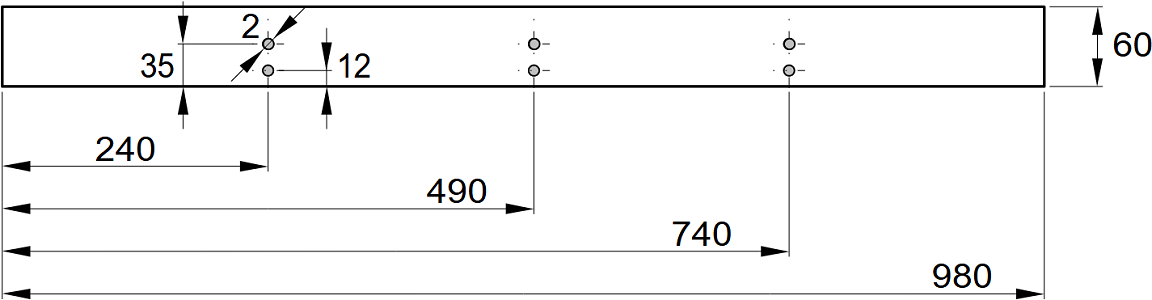
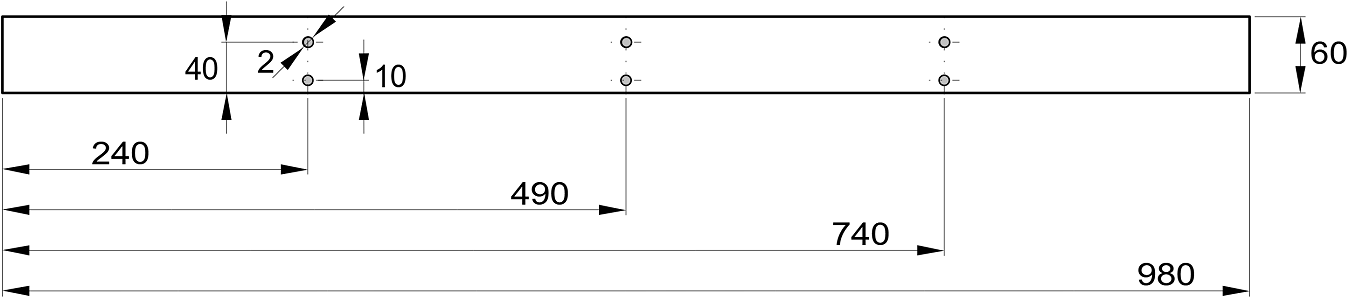
Update Modul 12

diff --git a/use/module12/LIESMICH.md b/use/module12/LIESMICH.md
@@ -16,10 +16,9 @@ Diese Anleitung beschreibt den Bau eines 100 x 25 cm² großen Gleis-Moduls M12 
 | Elektrischer Anschluss | 2x 25-poliger SUB-D-Stecker (entsprechend NEM 908D, je 1x WEST und OST) |   
 | Fahrstrom     | Analog oder DCC-Betrieb |   
 | Steuerung der Schaltkomponenten | * Händisch direkt an der Modulvorderseite <br> * über DCC <br> * durch MQTT-Nachrichten (über WLAN) |   
-| Bedienelemente | 1x Dreiwegweiche (Block W3, DCC 121 und 122) <br> 2x Zweiwegweiche (Block W2, DCC 123 und 128) <br> 1x Entkuppler (Block 1OUT, DCC 124) <br> 3x Fahrstrom (Block 2IO, DCC 125, 126 und 127) |   
-| IP-Adresse Broker (Host) | 10.1.1.1 |   
+| Bedienelemente | 1x OLED-Display und Taster <br> 1x Dreiwegweiche (Block W3, DCC 121 und 122) <br> 2x Zweiwegweiche (Block W2, DCC 123 und 128) <br> 1x Entkuppler (Block 1OUT, DCC 124) <br> 3x Fahrstrom (Block 2IO, DCC 125, 126 und 127) |   
 | WLAN           | SSID: &nbsp; &nbsp; &nbsp; `Raspi11` <br> Passwort: `12345678` |   
-
+| MQTT: IP-Adresse des Brokers (Host) | `10.1.1.1` |   
 <a name="x05"></a>   
 
 # Inhaltsverzeichnis   
@@ -31,7 +30,7 @@ Diese Anleitung beschreibt den Bau eines 100 x 25 cm² großen Gleis-Moduls M12 
 [Zum Seitenanfang](#up)   
 <a name="x10"></a>   
 
-# 1. Vorbereitung - Einkauf
+# 1. Vorbereitung und Einkauf
 ## 1.1 Entwurf des Gleisplans
 ### 1.1.1 Allgemeines zu Gleisplänen
 Beim Erstellen eines Gleisplans sind zwei Dinge zu beachten: das Lichtraumprofil und die Höhe des Gleisaufbaus. Das Lichtraumprofil gibt an, wieviel Platz (vor allem von langen Waggons) neben dem Gleis benötigt wird und ist bei engen Radien wichtig. Die Höhe des Gleisaufbaus (Bahnkörper) ist bei mehrstöckigen Anlagen oder Tunnels wichtig.   
@@ -56,7 +55,8 @@ Der folgende Gleisplan wurde mit dem Programm [AnyRail](https://www.anyrail.com/
 ![M12 Gleisplan](./images/300_m12_gleisplan.png "M12 Gleisplan")   
 _Bild 3: Gleisplan_   
 
-Das 2. Gleis von links ist ein Gleis ohne Schotterbett mit der Länge 17,2 mm (22207). Die übrigen kurzen Gleise sind Gerade (9104) mit der Länge 27,75 mm. (Im Plan nicht gut lesbar.)   
+Dunkelgraue Dreiecke stellen Gleisisolierungen dar (Isolierschuhe), braune und rote Kreise sind Fahrstromeinspeisungen.   
+Das 2. Gleis von links ist ein Gleis ohne Schotterbett mit der Länge 17,2 mm (22207). Die übrigen kurzen Gleise sind Gerade (9104) mit der Länge 27,75 mm. (Im Plan schlecht lesbar.)   
 Eine Besonderheit stellt das Gleis 9136 mit dem Kommentar "R4 9 Schwellen" dar: Hier wird ein Gleis 9136 zuerst links mit der Weiche verbunden und danach bei einem Winkel von 6,14° (= 9 Schwellen) "abgeschnitten".   
 
 ## 1.2 Schienenkauf - Stückliste
@@ -83,7 +83,13 @@ Zum Bau des Moduls werden folgende Gleise und Zubehör benötigt:
    
 Gesamtkosten 2025: ca. 435 Euro   
 
-## 1.3 Holzkauf für Modul 100 x 25 cm²
+## 1.3 Rahmen
+### 1.3.1 Modulrahmen
+Der 100 x 25 cm² große Modulrahmen ist 6 cm hoch und besteht aus zwei Seitenteilen ("Ost" und "West"), zwei Längsteilen ("Nord" und "Süd") sowie drei Querstreben. Die Geländeplatte wird in den Rahmen eingelegt.   
+Die Teile des Rahmens können entweder aus Holz hergestellt oder mit dem 3D-Drucker gedruckt werden. Auch eine gemischte Bauweise ist möglich, zB Seitenteile und Querstreben 3D-Drucken, Längsteile aus Holz.   
+
+
+### 1.3.2 Holzkauf für Modul 100 x 25 cm²
 Das Holz besorgt man sich am besten bei einem Baumarkt und lässt es gleich auf die folgenden Größen zuschneiden:   
 
 __Pappelsperrholz 10 mm__   
@@ -99,9 +105,12 @@ __Pappelsperrholz 5 mm (oder 4 mm)__
 |:-----:|:-------------:|:----------|   
 |   1   | 980 x 250 mm² | Bahndamm  |   
 
-Eventuell als zusätzliche Auflager für die Grundplatte: 4 kleine Holzstücken 10 x 10 x 50 mm³.   
+__Kleinteile__   
+20x Schraube M3 x 30 mm Senkkopf, Kreuzschlitz, selbstschneidend (Fa. Spax 4 003530 021251)   
+4x Pappelsperrholz 10 mm stark, 70 x 35 mm² für die Halterungen der Sub-D-Stecker.   
+4x kleine Holzstücken 10 x 10 x 50 mm³ als zusätzliche Auflager für die Grundplatte.   
 
-## 1.4 Verbrauchsmaterial
+## 1.3.3 Verbrauchsmaterial
 Zum Bau des Moduls wird noch folgendes benötigt:   
 | St&uuml;ck | Nummer | Lieferant  | Bezeichnung      |   
 |:----------:|:------:|:-----------|:-----------------|   
@@ -118,13 +127,13 @@ Damit der Holzrahmen nicht so leicht verstaubt, sollte er lackiert werden. Dazu 
 |      2     |   |   | Paar Einmal-Handschuhe         |   
 |      1     |   |   | Schleifpapier Körnung 240      |   
 
-## 1.5 Elektronische RCC-Komponenten
-### 1.5.1 Steuerung
+## 1.4 Elektronische RCC-Komponenten
+### 1.4.1 Steuerung
 Für die Steuerung wird der ESP32 mit den beiden Zusatzplatinen (I²C, DCC) und dem 1,54"-OLED-Display verwendet. Der Zusammenbau ist auf   
 [`https://github.com/khartinger/RCC5V/blob/main/fab/rcc2_esp32/LIESMICH.md`](/fab/rcc2_esp32/LIESMICH.md)   
 beschrieben.   
 
-### 1.5.2 Anschluss der 25-poligen Stecker
+### 1.4.2 Anschluss der 25-poligen Stecker
 Für den Anschluss der 25-poligen Stecker und für die Stromversorgung werden folgende bestückte Leiterplatten benötigt:   
 * 1x [Netzteil-Platine AC_5V_supply_6pol_DCC](/fab/rcc1_supply/LIESMICH.md#x20)   
 * 1x [Platine mit 25-poligem Sub-D-Stecker, Schraubklemmen und Netzteil (RW_5V_SUB25_10)](/fab/rcc1_supply/LIESMICH.md#x33)   
@@ -132,14 +141,17 @@ Für den Anschluss der 25-poligen Stecker und für die Stromversorgung werden fo
 
 Die bestückte Netzteil-Platine muss auf die Trägerplatine `RW_5V_SUB25_10` montiert werden.   
 
-### 1.5.3 Ansteuerung der Schaltkomponenten
+### 1.4.3 Ansteuerung der Schaltkomponenten
 Für die Ansteuerung der Schaltkomponenten werden folgende Schaltblöcke benötigt:   
 * 1x [Block Dreiwegweiche (W3)](/fab/rcc4_block/LIESMICH.md#x30)   
 * 2x [Block Zweiwegweiche (W2)](/fab/rcc4_block/LIESMICH.md#x20)   
 * 1x [Block Entkuppler (1OUT)](/fab/rcc4_block/LIESMICH.md#x40)   
 * 3x [Block Abschaltbares Gleis (2IO)](/fab/rcc4_block/LIESMICH.md#x50)   
 
-### 1.5.4 Verdrahtung
+### 1.4.4 I²C-Expander
+* 4x [PCF8574 I/O-Expander](/fab/rcc0_start/LIESMICH.md#34)   
+
+### 1.4.5 Verdrahtung
 Zum Anschluss der Schaltkomponenten sinnvoll sind folgende Zusatzplatinen:   
 ...ToDo...
 
@@ -151,8 +163,8 @@ __Drähte und Leitungen__
 
 # 2. Bau des Modul-Rahmens   
 ## 2.1 Einleitung
-Zuerst den Modul-Rahmen zu erstellen hat zwei Vorteile:   
-1. Der Test, ob die Grundplatte in den Rahmen passt, kann mit der leeren Grundplatte durchgeführt werden. Falls die Grundplatte zu groß ist, kann sie einfach zugeschnitten oder zugeschliffen werden.   
+Jedes Modul besteht aus einem Rahmen und der Grundplatte. Zuerst sollte man den Modul-Rahmen erstellen. Das hat zwei Vorteile:   
+1. Der Test, ob die Grundplatte in den Rahmen passt, kann mit der leeren Grundplatte erfolgen. Falls die Grundplatte zu groß ist, kann sie einfach zugeschnitten oder zugeschliffen werden.   
 2. Beim Aufkleben der Gleise auf die Grundplatte sind an den Modulübergängen (Ost und West) bereits die Seitenteile mit den Gleisausnehmungen vorhanden. So sind die Gleise beim Aufkleben sicher an der richtigen Position.   
 
 ## 2.2 Materialbedarf
@@ -161,30 +173,32 @@ Das 100 x 25 cm² große Modul besteht aus zwei Teilen:
 * Grundplatte   
 
 ![Modul-Rahmen](./images/300_module_frame.png "Modul-Rahmen")   
-_Bild 4: Rahmen außen (Ra1 bis Ra4) mit Querverstrebung innen (Ri1, Ri2, Ri3)_
+_Bild 4: AnyRail-Darstellung des Rahmens außen (Ra1 bis Ra4) mit Querverstrebungen innen (Ri1, Ri2, Ri3)_
 
 ## 2.3 Seitenteile Ra1, Ra3 (West, Ost)
 Die Seitenteile sind an eine (ehemalige?) Norm von n-spur.at angelehnt, wobei das Bahnkörper-Profil jedoch der NEM122 entspricht:   
 
 ![Modul_OstWest_1_Mitte.png](./images/300_OstWest_1_Mitte.png "Modul_OstWest_1_Mitte")   
-_Bild 5: N_Modul_2012: Seitenteil Ost, West (Modulbreite 250mm, ein in der Mitte liegendes Gleis)._   
+_Bild 5: Maße für die Seitenteile Ost und West (Modulbreite 250mm, ein in der Mitte liegendes Gleis)._   
 
-Die vier 8mm-Bohrungen dienen zum Verbinden von Modulen durch 8 mm-Flügelschrauben und Flügelmuttern.   
+Die vier 8mm-Bohrungen dienen zum Verbinden der Module mit 8 mm-Flügelschrauben und Flügelmuttern.   
 Die linken und rechten vier 2 mm-Bohrungen dienen zum Anschrauben der Nord- und Südwand. Sie müssen mit einem Kegelsenker erweitert werden, damit die Senkkopfschrauben nicht vorstehen.   
 Die oberen zwei 2mm-Bohrungen dienen zum Fixieren der Gelände-Grundplatte (falls erforderlich). Auch sie müssen mit einem Kegelsenker erweitert werden, damit die Senkkopfschrauben nicht vorstehen.   
 Die 60x20 mm²-Ausnehmung dient zum Durchführen des 25-poligen Sub-D-Steckers.   
 Mit besonderer Vorsicht ist die Ausnehmung für das Gleis zu fertigen. Mit einer Laubsäge wird die Ausnehmung etwas zu klein ausgeschnitten und mit einer Dreiecksfeile erweitert. Dabei ist immer wieder zu probieren, ob ein Fleischmann-Schotterbett-Gleis schon gerade (klemmend) hineinpasst und auch mittig ist.   
 
 ## 2.4 Rahmenteil Ra2 (Nord)
-Der Rahmenteil „Nord“ enthält dreimal zwei Bohrungen mit 2 mm Durchmesser, die wieder mit einem  Kegelsenker erweitert werden. Hier werden später die Querverstrebungen verschraubt.   
+Der Rahmenteil „Nord“ enthält dreimal zwei Bohrungen mit 2 mm Durchmesser, die wieder mit einem  Kegelsenker erweitert werden. Hier werden die Querverstrebungen verschraubt.   
 
 ![Modul_Nord_980mm](./images/300_Nord_980mm.png "Modul_Nord_980mm")   
 _Bild 6: Seitenteil Nord Ra2_   
 
 ## 2.5 Seitenteil Ra4 (Süd)
 Der Rahmenteil Süd enthält die Bohrungen für alle Steuerblöcke und die Querverstrebungen.   
-![]()   
-_Bild 7: Rahmenteil Süd Ra4_   
+Das Schaltbild der Dreiwegweiche W3 zeigt nach rechts (6 Bohrungen), das der ersten Zweiwegweiche W2 nach links unten (4 Bohrungen) und das des Entkupplers 1OUT nach rechts (4 Bohrungen). Es folgen die drei Schaltbilder für die Fahrstromabschaltung 2IO (7 Bohrungen) und das Schaltbild der zweiten Zweiwegweiche W2 nach rechts oben (4 Bohrungen).   
+
+![Modul_Süd_980mm](./images/300_Sued_980mm.png "Modul_Süd_980mm")   
+_Bild 7: Maße für den Rahmenteil Süd (Ra4)_   
 
 ## 2.6 Querverstrebung Ri1 bis Ri3
 Die Querverstrebungen enthalten Durchbrüche für Kabel.   
@@ -194,6 +208,9 @@ _Bild 8: Querverstrebungen Ri1 bis Ri3_
 
 [Zum Seitenanfang](#up)   
 <a name="x30"></a>   
+
+## 2.7 Zusammenbau des Rahmens
+
 
 # 3. Aufbau des Gleisplans   
 

diff --git a/fab/rcc0_start/LIESMICH.md b/fab/rcc0_start/LIESMICH.md
@@ -93,6 +93,7 @@ Viele der Bauteile, wie zB Schrauben, werden in größeren Gebinden verkauft, hi
 Die unten angegebenen Mengen reichen für den Bau _eines_ Moduls mit mehreren Blöcken.   
 Die angegebenen Preise dienen nur der Information und waren im Dezember 2024 gültig (ohne Black Friday etc.).   
 
+<a name="x31"></a>   
 ## Mechanische Bauteile
 
 | Bild | Anzahl | Stück /Pkg | Bezeichnung | ca. Euro | Quelle |   
@@ -106,6 +107,7 @@ Die angegebenen Preise dienen nur der Information und waren im Dezember 2024 gü
 | ![switch_cap](/images/parts/300_switch_cap.png "switch_cap") | 1 | 7x10 | Knopf für Taster/Schalter 8x8mm, Länge 10mm, 7 verschiedene Farben | 1,92 | [AliExpress Ali_CanHui](https://de.aliexpress.com/item/1005001524633998.html?spm=a2g0o.order_list.order_list_main.193.40f55c5f5h69eX&gatewayAdapt=glo2deu) |   
 |  | 1 | 100 | Knopf für Taster/Schalter 8x8mm, Länge 7mm, verschiedene Farben | 2,17 | [AliExpress TEJIATE_Store](https://de.aliexpress.com/item/4000504035520.html?spm=a2g0o.order_list.order_list_main.322.40f55c5f5h69eX&gatewayAdapt=glo2deu) |   
 
+<a name="x32"></a>   
 ## Elektrische Bauteile
 
 | Bild | Anzahl | Stück /Pkg | Bezeichnung | ca. Euro | Quelle |   
@@ -130,6 +132,7 @@ Die angegebenen Preise dienen nur der Information und waren im Dezember 2024 gü
 | ![IC4](/images/parts/300_IC4.png "IC4") | 1 | 50 | IC socket with turned contacts 4-pin | 4,68 | [AliExpress](https://de.aliexpress.com/item/1005003652148420.html?spm=a2g0o.productlist.main.1.7c52I0v0I0v0cU&algo_pvid=944cbd2e-7acc-4457-9e4f-fbcceda1d0a0&algo_exp_id=944cbd2e-7acc-4457-9e4f-fbcceda1d0a0-0&pdp_npi=4%40dis%21EUR%214.68%214.35%21%21%214.81%214.47%21%40210385a817331341448998686eda30%2112000026657542931%21sea%21AT%21738334575%21X&curPageLogUid=wU9ZgQgX5eGi&utparam-url=scene%3Asearch%7Cquery_from%3A) |   
 | ![IC8](/images/parts/300_IC8.png "IC8") | 1 | 10 | IC socket with turned contacts 8-pin | 1,89 | [AliExpress](https://de.aliexpress.com/item/1005007246586839.html?spm=a2g0o.order_list.order_list_main.195.f9f35c5fKqYn54&gatewayAdapt=glo2deu) |   
 
+<a name="x33"></a>   
 ## Elektronische Bauteile
 
 | Bild | Anzahl | Stück /Pkg | Bezeichnung | ca. Euro | Quelle |   
@@ -162,14 +165,18 @@ Die angegebenen Preise dienen nur der Information und waren im Dezember 2024 gü
 | ![resistor_47k](/images/parts/100_47k.png "resistor_47k") | 1 | 10 | Widerstand 47 k&Omega; | 0,00 | [Reichelt](https://www.reichelt.de/de/de/shop/produkt/widerstand_kohleschicht_47_kohm_0207_250_mw_5_-1434) |   
 | ![resistor_100k](/images/parts/100_100k.png "resistor_100k") | 1 | 10 | Widerstand 100 k&Omega; | 0,00 | [Reichelt](https://www.reichelt.de/de/de/shop/produkt/widerstand_kohleschicht_100_kohm_0207_250_mw_5_-1337) |   
 
+<a name="x34"></a>   
 ## Zukaufteile
+
 | Bild | Anzahl | Stück /Pkg | Bezeichnung | ca. Euro | Quelle |   
 |:---- |:------:|:----------:|:----------- | --------:|:------ |   
 | ![DC-DC-Converter](/images/parts/300_dc_dc_converter1.png "DC-DC-Converter") | 1 | 5 | DC-DC-Wandler-Board StepDown_LM2596 | 9,56 | [Amazon](https://www.amazon.de/dp/B0823P6PW6?ref=ppx_yo2ov_dt_b_fed_asin_title) |    
 | ![I2C-Logic-Level-Converter](/images/parts/96_i2c_logic_level_converter.png "I2C-Logic-Level-Converter") | 1 | 1 <br> 5 | 5V-3V Dual Channel I2C IIC Logic-Level-Converter Modul Bi-Directional | 0,28 <br> 4,91 | [AliExpress diymore Alice1101983](https://de.aliexpress.com/item/32903662283.html?spm=a2g0o.order_list.order_list_main.25.681e5c5fkWDadk&gatewayAdapt=glo2deu) <br> [AliExpress Shop1103484531](https://de.aliexpress.com/item/1005006695012358.html?spm=a2g0o.order_list.order_list_main.54.40f55c5f5h69eX&gatewayAdapt=glo2deu) |   
 | ![PCF8574](/images/parts/300_PCF8574.png "PCF8574") | 1 | 10 | PCF8574 I/O-Expander-Platine | 8,87 | [AliExpress](https://de.aliexpress.com/item/1005006308901447.html?spm=a2g0o.order_list.order_list_main.384.f9f35c5fI5TZhl&gatewayAdapt=glo2deu) |    
 
+<a name="x35"></a>   
 ## Sonstiges
+
 | Bild | Anzahl | Stück /Pkg | Bezeichnung | ca. Euro | Quelle |   
 |:---- |:------:|:----------:|:----------- | --------:|:------ |   
 | ![solder wire](/images/parts/300_solderwire1.png "solder wire ")  | 1 | 1 | Lötzinn, Bleifreies Lot mit Kolophonium Kern (Sn99 Ag0,3 Cu0,7/0,8mm,50g) | 11,09 | [Amazon](https://www.amazon.de/dp/B07Z7JQ4SX?ref=ppx_yo2ov_dt_b_fed_asin_title) |   
@@ -178,7 +185,9 @@ Die angegebenen Preise dienen nur der Information und waren im Dezember 2024 gü
 | ![](/images/parts/) | 1 | 40 | Dupont Line 10 cm, 40 Pin, Buchse auf Buchse (F-F 10cm 40pin) | 2,41 | [AliExpress](https://de.aliexpress.com/item/1005003641187997.html?spm=a2g0o.order_list.order_list_main.509.40f55c5f5h69eX&gatewayAdapt=glo2deu) |   
 | ![dupont_10cm_3kinds_120pin](/images/parts/300_dupont_10cm_3kinds_120pin.png "dupont_10cm_3kinds_120pin") | 1 | 120 | Dupont Line 10 cm, Stecker auf Stecker + Stecker auf Buchse + Buchse auf Buchse (10cm 3kinds 120pin) | 4,13 | [AliExpress](https://de.aliexpress.com/item/1005003641187997.html?spm=a2g0o.order_list.order_list_main.509.40f55c5f5h69eX&gatewayAdapt=glo2deu) |   
 
+<a name="x36"></a>   
 ## Werkzeug
+
 Lötstation, kleine Spitzzange, kleiner Seitenschneider, kleiner Schraubendreher, Abbrechklingenmesser ("Stanley-Messer", Cutter-Messer), Schraubstock.   
 Bohrmaschine, Laubsäge, Bohrer (5,6 mm, 8 mm, 11,6 mm).   
 

diff --git a/fab/rcc0_start/README.md b/fab/rcc0_start/README.md
@@ -93,6 +93,7 @@ Many of the components, such as screws, are sold in larger packs, so it is usual
 The quantities given below are sufficient to build _one_ module with several blocks.   
 The prices given are for information only and were valid in December 2024 (without Black Friday etc.).   
 
+<a name="x31"></a>   
 ## Mechanical components
 
 | Image | Quantity | Parts/Pack | Description | approx. Euro | Source |   
@@ -106,6 +107,7 @@ The prices given are for information only and were valid in December 2024 (witho
 | ![switch_cap](/images/parts/300_switch_cap.png "switch_cap") | 1 | 7x10 | Knob for button/switch 8x8mm, length 10mm, 7 different colors | 1.92 | [AliExpress Ali_CanHui](https://de.aliexpress.com/item/1005001524633998.html?spm=a2g0o.order_list.order_list_main.193.40f55c5f5h69eX&gatewayAdapt=glo2deu) |   
 | | 1 | 100 | Knob for button/switch 8x8mm, length 7mm, different colors | 2,17 | [AliExpress TEJIATE_Store](https://de.aliexpress.com/item/4000504035520.html?spm=a2g0o.order_list.order_list_main.322.40f55c5f5h69eX&gatewayAdapt=glo2deu) |   
 
+<a name="x32"></a>   
 ## Electrical components
 
 | Image | Quantity | Parts/Pack | Description | approx. Euro | Source |   
@@ -130,6 +132,7 @@ The prices given are for information only and were valid in December 2024 (witho
 | ![IC4](/images/parts/300_IC4.png "IC4") | 1 | 50 | IC socket 4-pin with turned sockets | 4,68 | [AliExpress](https://de.aliexpress.com/item/1005003652148420.html?spm=a2g0o.productlist.main.1.7c52I0v0I0v0cU&algo_pvid=944cbd2e-7acc-4457-9e4f-fbcceda1d0a0&algo_exp_id=944cbd2e-7acc-4457-9e4f-fbcceda1d0a0-0&pdp_npi=4%40dis%21EUR%214.68%214.35%21%21%214.81%214.47%21%40210385a817331341448998686eda30%2112000026657542931%21sea%21AT%21738334575%21X&curPageLogUid=wU9ZgQgX5eGi&utparam-url=scene%3Asearch%7Cquery_from%3A) |   
 | ![IC8](/images/parts/300_IC8.png "IC8") | 1 | 10 | IC socket 8-pin with turned sockets | 1,89 | [AliExpress](https://de.aliexpress.com/item/1005007246586839.html?spm=a2g0o.order_list.order_list_main.195.f9f35c5fKqYn54&gatewayAdapt=glo2deu) |   
 
+<a name="x33"></a>   
 ## Electronic components
 
 | Image | Quantity | Parts/Pack | Description | approx. Euro | Source |   
